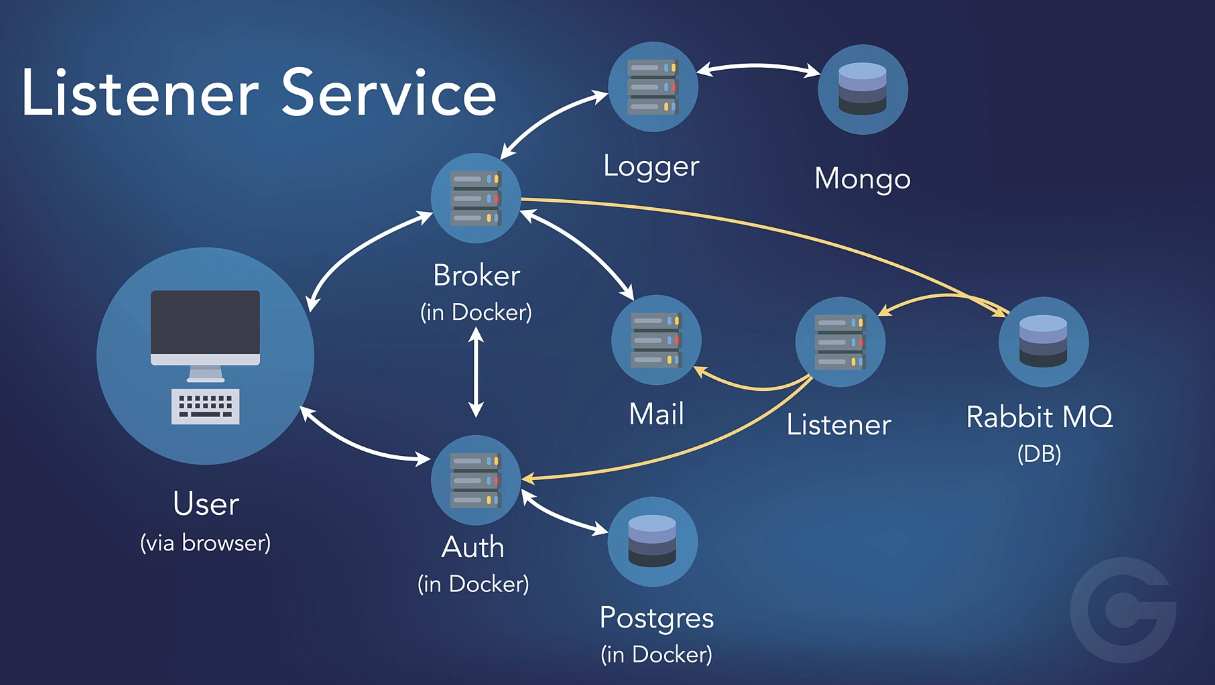
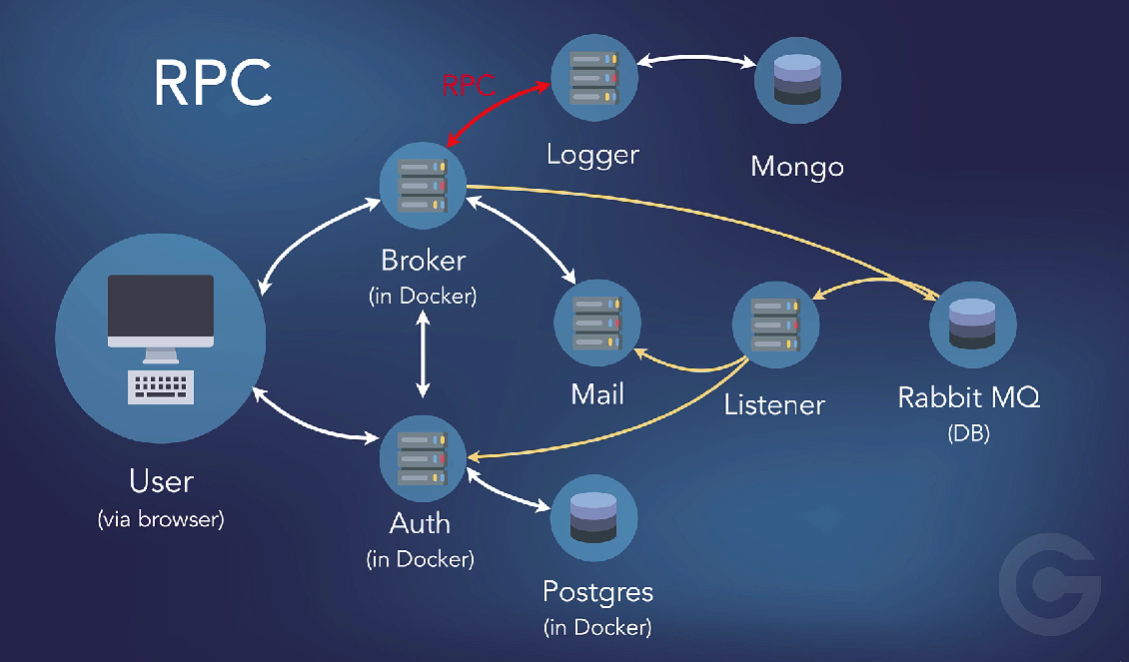
Added rpc connection between two repos

Changed region(s): [[0.0, 0.0302, 0.93, 0.9668], [0.651, 0.2417, 0.775, 0.3021]]

diff --git a/broker-service/cmd/api/handlers.go b/broker-service/cmd/api/handlers.go
@@ -5,8 +5,8 @@ import (
 	"encoding/json"
 	"errors"
 	"fmt"
-	"go-microservices/broker-service/event"
 	"net/http"
+	"net/rpc"
 )
 
 type RequestPayload struct {
@@ -56,7 +56,7 @@ func (app *Config) HandleSubmission(w http.ResponseWriter, r *http.Request) {
 	case "auth":
 		app.authenticate(w, requestPayload.Auth)
 	case "log":
-		app.logEventViaRabbit(w, requestPayload.Log)
+		app.logEventViaRPC(w, requestPayload.Log)
 	case "mail":
 		app.sendMail(w, requestPayload.Mail)
 	default:
@@ -114,6 +114,8 @@ func (app *Config) authenticate(w http.ResponseWriter, a AuthPayload) {
 	app.writeJSON(w, http.StatusAccepted, payload)
 }
 
+// Log via http
+
 /*
 func (app *Config) logItem(w http.ResponseWriter, entry LogPayload) {
 	jsonData, _ := json.MarshalIndent(entry, "", "\t")
@@ -151,6 +153,71 @@ func (app *Config) logItem(w http.ResponseWriter, entry LogPayload) {
 }
 */
 
+// Log via rabbit
+
+/*
+func (app *Config) logEventViaRabbit(w http.ResponseWriter, l LogPayload) {
+	err := app.pushToQueue(l.Name, l.Data)
+	if err != nil {
+		app.errorJSON(w, err)
+		return
+	}
+
+	var payload jsonResponse
+	payload.Error = false
+	payload.Message = "logged via RabbitMQ"
+
+	app.writeJSON(w, http.StatusAccepted, payload)
+}
+
+func (app *Config) pushToQueue(name, msg string) error {
+	emitter, err := event.NewEventEmitter(app.Rabbit)
+	if err != nil {
+		return err
+	}
+
+	payload := LogPayload{
+		Name: name,
+		Data: msg,
+	}
+
+	j, _ := json.MarshalIndent(&payload, "", "\t")
+	err = emitter.Push(string(j), "log.INFO")
+	if err != nil {
+		return err
+	}
+	return nil
+}
+*/
+
+// Log via rpc
+func (app *Config) logEventViaRPC(w http.ResponseWriter, l LogPayload) {
+	client, err := rpc.Dial("tcp", "logger-service:5001")
+	if err != nil {
+		app.errorJSON(w, err)
+		return
+	}
+
+	rpcPayload := LogPayload{
+		Name: l.Name,
+		Data: l.Data,
+	}
+
+	var result string
+	err = client.Call("RPCServer.LogInfo", rpcPayload, &result)
+	if err != nil {
+		app.errorJSON(w, err)
+		return
+	}
+
+	payload := jsonResponse{
+		Error:   false,
+		Message: result,
+	}
+
+	app.writeJSON(w, http.StatusAccepted, payload)
+}
+
 func (app *Config) sendMail(w http.ResponseWriter, msg MailPayload) {
 	jsonData, _ := json.MarshalIndent(msg, "", "\t")
 
@@ -187,37 +254,4 @@ func (app *Config) sendMail(w http.ResponseWriter, msg MailPayload) {
 	payload.Message = "Message send to " + msg.To
 
 	app.writeJSON(w, http.StatusAccepted, payload)
-}
-
-func (app *Config) logEventViaRabbit(w http.ResponseWriter, l LogPayload) {
-	err := app.pushToQueue(l.Name, l.Data)
-	if err != nil {
-		app.errorJSON(w, err)
-		return
-	}
-
-	var payload jsonResponse
-	payload.Error = false
-	payload.Message = "logged via RabbitMQ"
-
-	app.writeJSON(w, http.StatusAccepted, payload)
-}
-
-func (app *Config) pushToQueue(name, msg string) error {
-	emitter, err := event.NewEventEmitter(app.Rabbit)
-	if err != nil {
-		return err
-	}
-
-	payload := LogPayload{
-		Name: name,
-		Data: msg,
-	}
-
-	j, _ := json.MarshalIndent(&payload, "", "\t")
-	err = emitter.Push(string(j), "log.INFO")
-	if err != nil {
-		return err
-	}
-	return nil
 }

diff --git a/logger-service/cmd/api/main.go b/logger-service/cmd/api/main.go
@@ -5,7 +5,9 @@ import (
 	"fmt"
 	"go-microservices/log-service/data"
 	"log"
+	"net"
 	"net/http"
+	"net/rpc"
 	"time"
 
 	"go.mongodb.org/mongo-driver/mongo"
@@ -45,6 +47,12 @@ func main() {
 		Models: data.New(client),
 	}
 
+	// Register the RPC Server
+	err = rpc.Register(new(RPCServer))
+	go app.rpcListen()
+
+	//start web server
+	log.Println("Starting service on port", webPort)
 	srv := &http.Server{
 		Addr:    fmt.Sprintf(":%s", webPort),
 		Handler: app.routes(),
@@ -53,6 +61,24 @@ func main() {
 	err = srv.ListenAndServe()
 	if err != nil {
 		log.Panic()
+	}
+}
+
+func (app *Config) rpcListen() error {
+	log.Println("Starting RPC server on port: ", rpcPort)
+	listen, err := net.Listen("tcp", fmt.Sprintf("0.0.0.0:%s", rpcPort))
+	if err != nil {
+		return err
+	}
+
+	defer listen.Close()
+
+	for {
+		rpcConn, err := listen.Accept()
+		if err != nil {
+			continue
+		}
+		go rpc.ServeConn(rpcConn)
 	}
 }
 

diff --git a/logger-service/cmd/api/rpc.go b/logger-service/cmd/api/rpc.go
@@ -1,0 +1,32 @@
+package main
+
+import (
+	"context"
+	"go-microservices/log-service/data"
+	"log"
+	"time"
+)
+
+type RPCServer struct{}
+
+type RPCPayload struct {
+	Name string
+	Data string
+}
+
+func (r *RPCServer) LogInfo(payload RPCPayload, resp *string) error {
+	collection := client.Database("logs").Collection("logs")
+	_, err := collection.InsertOne(context.TODO(), data.LogEntry{
+		Name:      payload.Name,
+		Data:      payload.Data,
+		CreatedAt: time.Now(),
+	})
+
+	if err != nil {
+		log.Println("error writing to mongo", err)
+		return err
+	}
+
+	*resp = "Processed payload via RPC:" + payload.Name
+	return nil
+}
